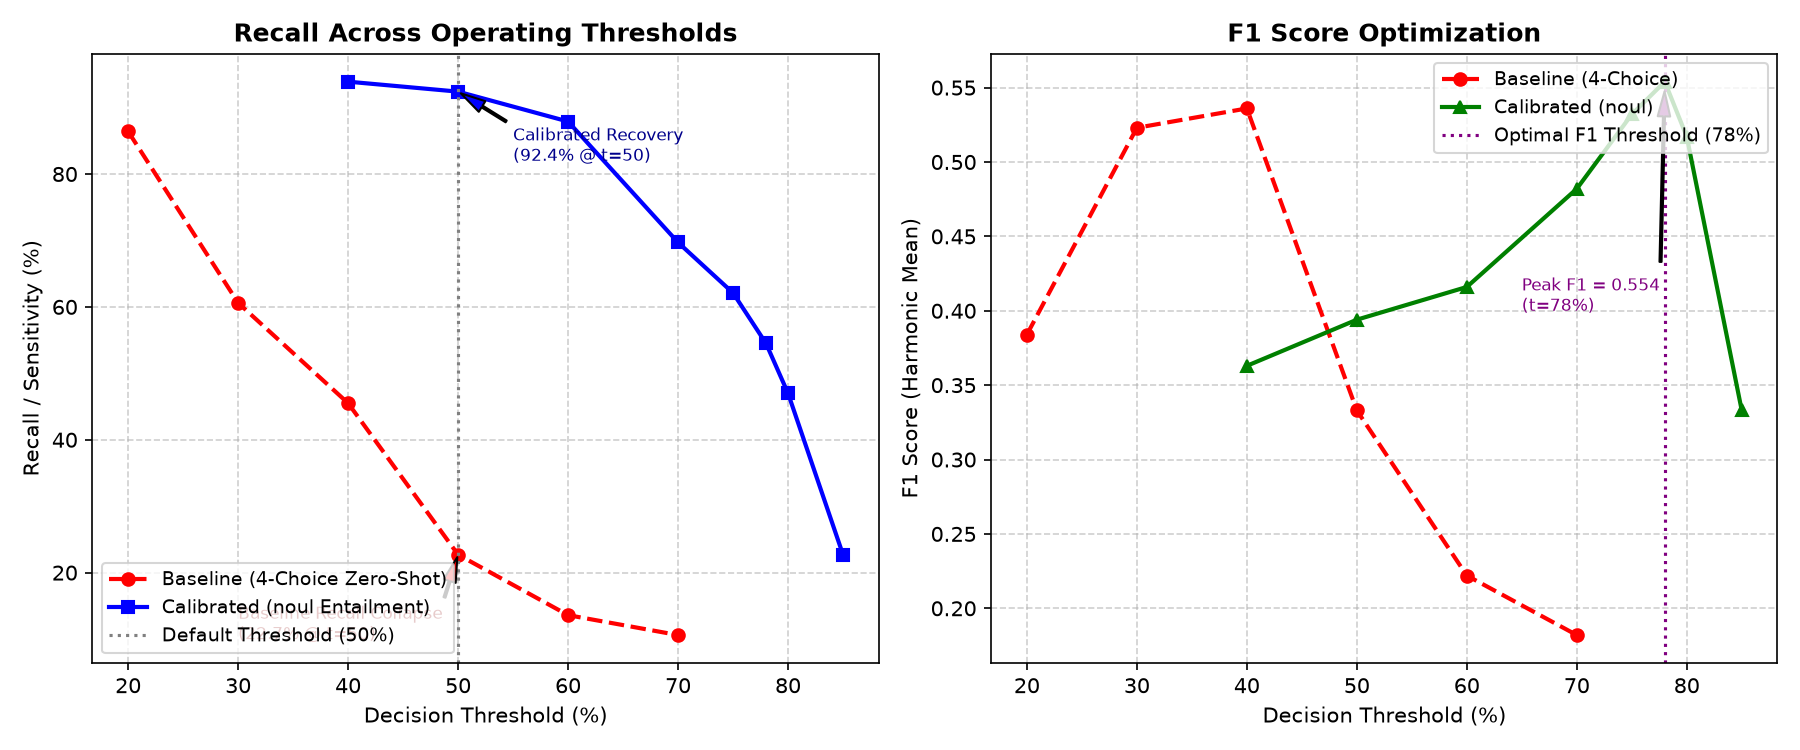
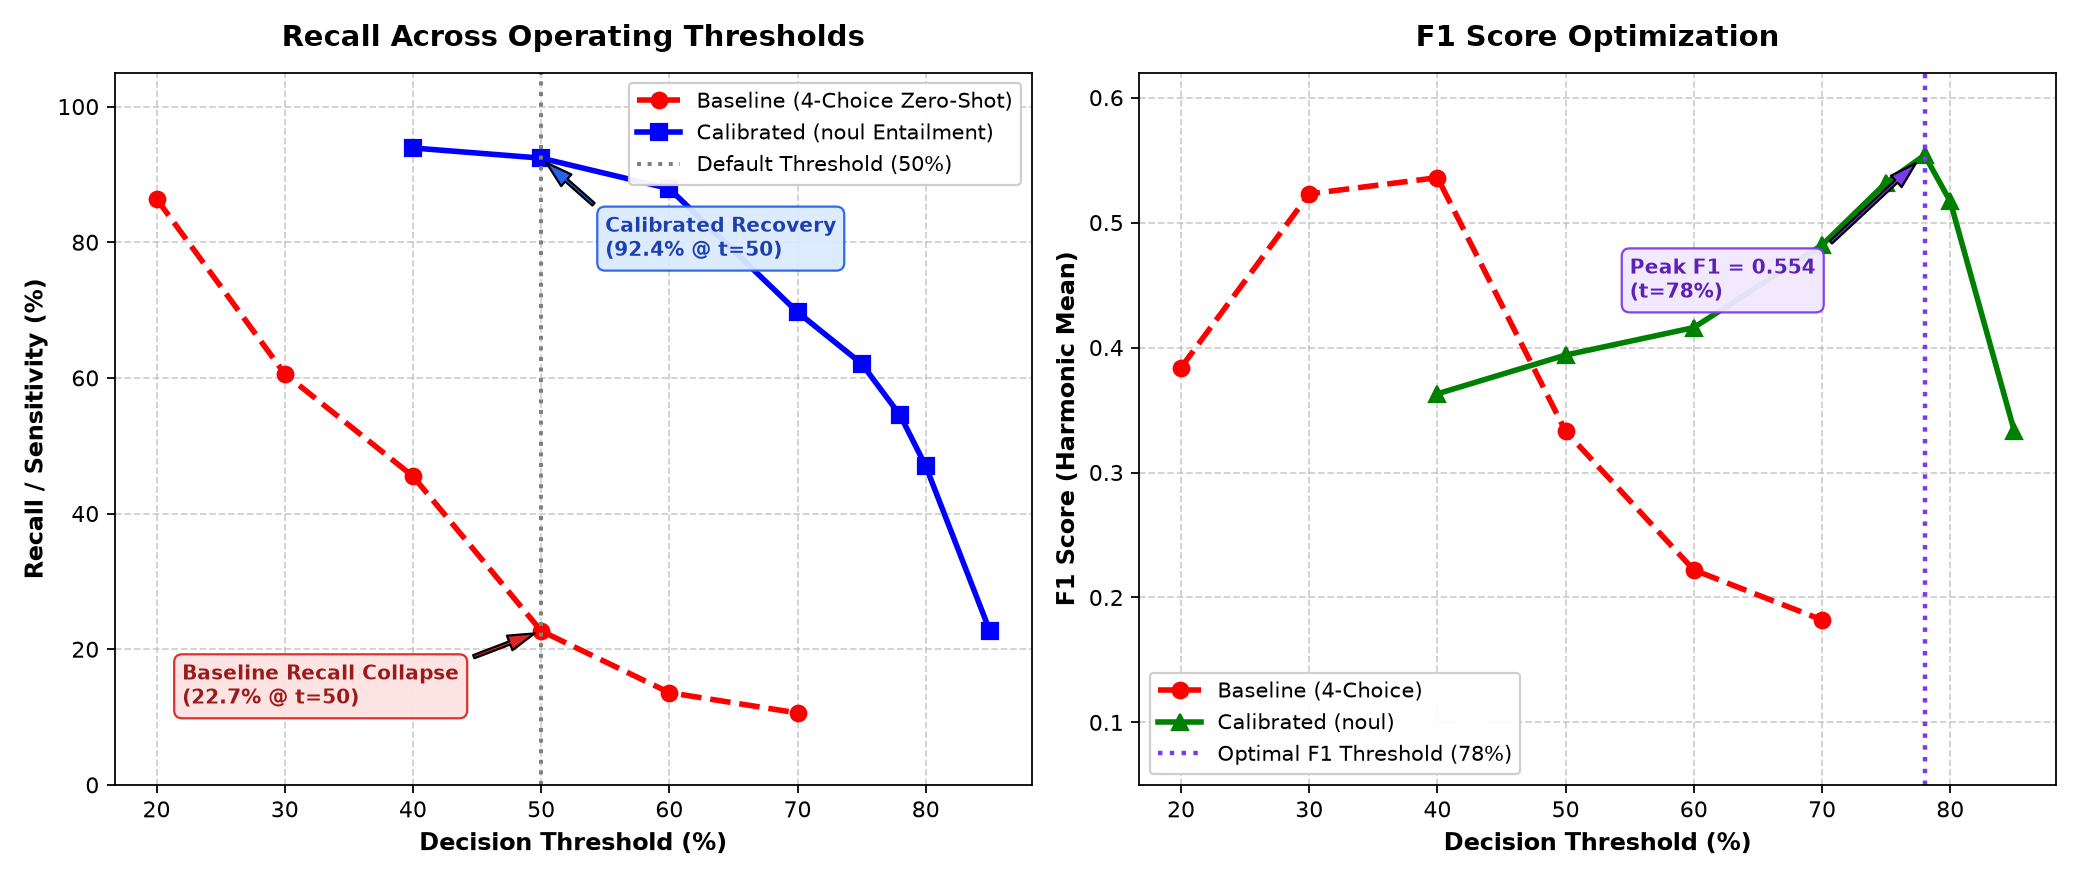
docs(readme,eval): fix diagram readability, update model plot, and add corpus distribution chart
- Convert Mermaid diagrams to vertical flowchart TD for full dark-mode contrast and zero text truncation
- Fix overlapping legends and add high-contrast callout boxes in eval/model_comparison.png
- Add eval/corpus_distribution.png and generation script for 102K corpus
- Update README badge to 102K+ and sync operating band record counts
- Remove one-off migration script scripts/surgical_update.py

diff --git a/scripts/plot_corpus_distribution.py b/scripts/plot_corpus_distribution.py
@@ -1,0 +1,100 @@
+"""
+scripts/plot_corpus_distribution.py
+
+Generates visual distribution plots for the Pax Silica Gold Corpus:
+1. Platform Composition (Horizontal Bar Chart)
+2. Continuous Decision Rating Density (Shaded by Operational Tiers: Negatives, Discovery, Core)
+
+Saves figure to eval/corpus_distribution.png.
+"""
+
+from pathlib import Path
+import matplotlib.pyplot as plt
+import numpy as np
+import pandas as pd
+
+REPO = Path(__file__).resolve().parent.parent
+GOLD_PARQUET = REPO / "data" / "gold" / "pax_silica_corpus.parquet"
+OUT_PATH = REPO / "eval" / "corpus_distribution.png"
+
+
+def plot_corpus():
+    df = pd.read_parquet(GOLD_PARQUET)
+    total = len(df)
+
+    plt.style.use("seaborn-v0_8-whitegrid" if "seaborn-v0_8-whitegrid" in plt.style.available else "default")
+    fig, (ax1, ax2) = plt.subplots(1, 2, figsize=(14, 5.5), dpi=150)
+
+    # -------------------------------------------------------------
+    # Subplot 1: Platform Distribution (Horizontal Bar Chart)
+    # -------------------------------------------------------------
+    plat_counts = df["platform"].value_counts()
+    # Group rare platforms (< 500) into 'Other'
+    major_plats = plat_counts[plat_counts >= 500]
+    other_sum = plat_counts[plat_counts < 500].sum()
+    if other_sum > 0:
+        major_plats["other (forums, bsky, etc.)"] = other_sum
+
+    plat_labels = [p.replace("_", " ").title() for p in major_plats.index]
+    y_pos = np.arange(len(major_plats))
+    colors = ["#3b82f6", "#ef4444", "#10b981", "#f59e0b", "#8b5cf6", "#64748b", "#94a3b8"][:len(major_plats)]
+
+    bars = ax1.barh(y_pos, major_plats.values, color=colors, edgecolor="black", alpha=0.85)
+    ax1.set_yticks(y_pos)
+    ax1.set_yticklabels(plat_labels, fontsize=10, fontweight="bold")
+    ax1.invert_yaxis()  # Top-down
+    ax1.set_xlabel("Number of Verified Records", fontsize=10)
+    ax1.set_title(f"Platform Composition (N = {total:,})", fontsize=12, fontweight="bold")
+    ax1.grid(True, linestyle="--", alpha=0.5, axis="x")
+
+    # Add text labels on bars
+    for bar in bars:
+        w = bar.get_width()
+        pct = w / total * 100
+        ax1.text(w + (total * 0.01), bar.get_y() + bar.get_height()/2, f"{w:,} ({pct:.1f}%)",
+                 va="center", fontsize=8.5, fontweight="bold")
+
+    ax1.set_xlim(0, max(major_plats.values) * 1.22)
+
+    # -------------------------------------------------------------
+    # Subplot 2: Relevance Score Density & Operational Tiers
+    # -------------------------------------------------------------
+    scores = df["decision_rating"].dropna()
+    n, bins, patches = ax2.hist(scores, bins=50, edgecolor="black", alpha=0.8, range=(0, 100))
+
+    # Color code patches by tier
+    for patch, bin_left in zip(patches, bins[:-1]):
+        if bin_left >= 75:
+            patch.set_facecolor("#10b981")  # Emerald Green (Core)
+        elif bin_left >= 50:
+            patch.set_facecolor("#f59e0b")  # Amber/Yellow (Discovery)
+        else:
+            patch.set_facecolor("#94a3b8")  # Slate Gray (Negatives)
+
+    # Threshold markers
+    ax2.axvline(x=50, color="#d97706", linestyle="--", linewidth=1.8, label="Discovery Gate (t=50%)")
+    ax2.axvline(x=75, color="#059669", linestyle="-", linewidth=2.0, label="Recommended Core Gate (t=75%)")
+    ax2.axvline(x=78, color="#7c3aed", linestyle=":", linewidth=2.0, label="Peak F1 Optimum (t=78%)")
+
+    ax2.set_title("Continuous Score Density & Operational Tiers", fontsize=12, fontweight="bold")
+    ax2.set_xlabel("Decision Rating (Closeness to Pax Silica Anchor %)", fontsize=10)
+    ax2.set_ylabel("Record Volume (Frequency)", fontsize=10)
+    ax2.grid(True, linestyle="--", alpha=0.5)
+    ax2.legend(loc="upper right", fontsize=8.5)
+
+    # Annotations for tiers
+    ax2.text(25, max(n) * 0.85, "Filtered Negatives\n(33.8k rows / 33.1%)\nOff-Topic Noise",
+             ha="center", fontsize=8, color="#475569", bbox=dict(boxstyle="round,pad=0.3", fc="#f1f5f9", ec="#94a3b8"))
+    ax2.text(62, max(n) * 0.65, "Discovery Slice\n(44.6k rows / 43.6%)\nHigh-Recall Auditing",
+             ha="center", fontsize=8, color="#b45309", bbox=dict(boxstyle="round,pad=0.3", fc="#fef3c7", ec="#f59e0b"))
+    ax2.text(88, max(n) * 0.85, "Analytical Core\n(23.9k rows / 23.4%)\nHigh Precision (Policy)",
+             ha="center", fontsize=8, color="#065f46", bbox=dict(boxstyle="round,pad=0.3", fc="#d1fae5", ec="#10b981"))
+
+    plt.tight_layout()
+    OUT_PATH.parent.mkdir(parents=True, exist_ok=True)
+    plt.savefig(OUT_PATH)
+    print(f"Generated corpus distribution figure: {OUT_PATH}")
+
+
+if __name__ == "__main__":
+    plot_corpus()

diff --git a/scripts/plot_calibration_comparison.py b/scripts/plot_calibration_comparison.py
@@ -27,33 +27,44 @@ def plot_comparison():
     noul_rec = [93.9, 92.4, 87.9, 69.7, 62.1, 54.5, 47.0, 22.7]
     noul_f1 = [0.363, 0.394, 0.416, 0.482, 0.532, 0.554, 0.517, 0.333]
 
-    fig, (ax1, ax2) = plt.subplots(1, 2, figsize=(12, 5), dpi=150)
+    fig, (ax1, ax2) = plt.subplots(1, 2, figsize=(13, 5.5), dpi=160)
 
     # Subplot 1: Recall vs Threshold
-    ax1.plot(base_thresh, base_rec, 'r--o', label='Baseline (4-Choice Zero-Shot)', linewidth=2)
-    ax1.plot(noul_thresh, noul_rec, 'b-s', label='Calibrated (noul Entailment)', linewidth=2)
-    ax1.axvline(x=50, color='gray', linestyle=':', label='Default Threshold (50%)')
-    ax1.set_title('Recall Across Operating Thresholds', fontsize=12, fontweight='bold')
-    ax1.set_xlabel('Decision Threshold (%)', fontsize=10)
-    ax1.set_ylabel('Recall / Sensitivity (%)', fontsize=10)
+    ax1.plot(base_thresh, base_rec, 'r--o', label='Baseline (4-Choice Zero-Shot)', linewidth=2.5, markersize=7)
+    ax1.plot(noul_thresh, noul_rec, 'b-s', label='Calibrated (noul Entailment)', linewidth=2.5, markersize=7)
+    ax1.axvline(x=50, color='gray', linestyle=':', linewidth=1.8, label='Default Threshold (50%)')
+    ax1.set_title('Recall Across Operating Thresholds', fontsize=13, fontweight='bold', pad=12)
+    ax1.set_xlabel('Decision Threshold (%)', fontsize=11, fontweight='bold')
+    ax1.set_ylabel('Recall / Sensitivity (%)', fontsize=11, fontweight='bold')
     ax1.grid(True, linestyle='--', alpha=0.6)
-    ax1.legend(loc='lower left', fontsize=9)
-    ax1.annotate('Baseline Recall Collapse\n(22.7% @ t=50)', xy=(50, 22.7), xytext=(30, 10),
-                 arrowprops=dict(facecolor='red', shrink=0.05, width=1, headwidth=6), fontsize=8, color='darkred')
-    ax1.annotate('Calibrated Recovery\n(92.4% @ t=50)', xy=(50, 92.4), xytext=(55, 82),
-                 arrowprops=dict(facecolor='blue', shrink=0.05, width=1, headwidth=6), fontsize=8, color='darkblue')
+    ax1.set_ylim(0, 105)
+    ax1.legend(loc='upper right', fontsize=9.5, framealpha=0.95)
+
+    ax1.annotate('Baseline Recall Collapse\n(22.7% @ t=50)', xy=(50, 22.7), xytext=(22, 12),
+                 arrowprops=dict(facecolor='#dc2626', shrink=0.08, width=1.5, headwidth=7),
+                 fontsize=9, fontweight='bold', color='#991b1b',
+                 bbox=dict(boxstyle='round,pad=0.4', fc='#fee2e2', ec='#dc2626', alpha=0.95))
+
+    ax1.annotate('Calibrated Recovery\n(92.4% @ t=50)', xy=(50, 92.4), xytext=(55, 78),
+                 arrowprops=dict(facecolor='#2563eb', shrink=0.08, width=1.5, headwidth=7),
+                 fontsize=9, fontweight='bold', color='#1e40af',
+                 bbox=dict(boxstyle='round,pad=0.4', fc='#dbeafe', ec='#2563eb', alpha=0.95))
 
     # Subplot 2: F1 Score Comparison
-    ax2.plot(base_thresh, base_f1, 'r--o', label='Baseline (4-Choice)', linewidth=2)
-    ax2.plot(noul_thresh, noul_f1, 'g-^', label='Calibrated (noul)', linewidth=2)
-    ax2.axvline(x=78, color='purple', linestyle=':', label='Optimal F1 Threshold (78%)')
-    ax2.set_title('F1 Score Optimization', fontsize=12, fontweight='bold')
-    ax2.set_xlabel('Decision Threshold (%)', fontsize=10)
-    ax2.set_ylabel('F1 Score (Harmonic Mean)', fontsize=10)
+    ax2.plot(base_thresh, base_f1, 'r--o', label='Baseline (4-Choice)', linewidth=2.5, markersize=7)
+    ax2.plot(noul_thresh, noul_f1, 'g-^', label='Calibrated (noul)', linewidth=2.5, markersize=7)
+    ax2.axvline(x=78, color='#7c3aed', linestyle=':', linewidth=2.0, label='Optimal F1 Threshold (78%)')
+    ax2.set_title('F1 Score Optimization', fontsize=13, fontweight='bold', pad=12)
+    ax2.set_xlabel('Decision Threshold (%)', fontsize=11, fontweight='bold')
+    ax2.set_ylabel('F1 Score (Harmonic Mean)', fontsize=11, fontweight='bold')
     ax2.grid(True, linestyle='--', alpha=0.6)
-    ax2.legend(loc='upper right', fontsize=9)
-    ax2.annotate('Peak F1 = 0.554\n(t=78%)', xy=(78, 0.554), xytext=(65, 0.40),
-                 arrowprops=dict(facecolor='purple', shrink=0.05, width=1, headwidth=6), fontsize=8, color='purple')
+    ax2.set_ylim(0.05, 0.62)
+    ax2.legend(loc='lower left', fontsize=9.5, framealpha=0.95)
+
+    ax2.annotate('Peak F1 = 0.554\n(t=78%)', xy=(78, 0.554), xytext=(55, 0.44),
+                 arrowprops=dict(facecolor='#7c3aed', shrink=0.08, width=1.5, headwidth=7),
+                 fontsize=9, fontweight='bold', color='#5b21b6',
+                 bbox=dict(boxstyle='round,pad=0.4', fc='#f3e8ff', ec='#7c3aed', alpha=0.95))
 
     plt.tight_layout()
     OUT_PATH.parent.mkdir(parents=True, exist_ok=True)

diff --git a/transforms/cleaner.py b/transforms/cleaner.py
@@ -15,12 +15,6 @@ ANCHOR_RE = re.compile(
 # Supported target languages for Philippine netizen discourse
 TARGET_LANGS = {'en', 'tl', 'fil', 'ceb', 'id'}
 
-# High-frequency English and Tagalog stopwords for fast-path validation (bypasses slow statistical detect)
-FAST_PASS_WORDS = {
-    'the', 'and', 'is', 'to', 'in', 'of', 'for', 'on', 'with', 'that', 'this', 'are', 'from', 'at', 'be', 'it', 'by', 'as', 'was', 'have', 'has', 'we', 'you', 'my', 'our', 'they', 'will',
-    'ang', 'ng', 'mga', 'sa', 'na', 'ko', 'mo', 'ba', 'po', 'opo', 'hindi', 'pero', 'para', 'kung', 'may', 'ano', 'kasi', 'kami', 'tayo', 'sila', 'nila', 'atin', 'natin', 'inyo', 'lahat'
-}
-
 
 def is_target_language(text: str) -> bool:
     """
@@ -46,11 +40,6 @@ def is_target_language(text: str) -> bool:
                 return detect(text) in TARGET_LANGS
             except Exception:
                 return False
-        return True
-
-    # Fast-pass: if text contains 2+ high-frequency English or Filipino words, it is safe
-    words = {w.lower() for w in re.findall(r'\b[a-z]{2,}\b', text.lower())}
-    if len(words & FAST_PASS_WORDS) >= 2:
         return True
 
     cleaned = re.sub(r'[^\w\s]', '', text).strip()

diff --git a/README.md b/README.md
@@ -3,7 +3,7 @@
 [![Data Architecture: Medallion](https://img.shields.io/badge/Architecture-Medallion%20(Bronze%20%E2%86%92%20Silver%20%E2%86%92%20Gold)-blue.svg)](#architecture)
 [![Database: DuckDB](https://img.shields.io/badge/Storage-DuckDB%20%2B%20Snappy%20Parquet-orange.svg)](#silver-layer)
 [![NLP: Laya NLI](https://img.shields.io/badge/NLP-Zero--Shot%20Cross--Encoder%20(CUDA)-green.svg)](#ai-semantic-filtering)
-[![Scale: 100K+](https://img.shields.io/badge/Corpus-107K%2B%20Records-purple.svg)](#dataset-metrics)
+[![Scale: 100K+](https://img.shields.io/badge/Corpus-102K%2B%20Records-purple.svg)](#dataset-metrics)
 
 An end-to-end, production-grade Medallion ELT and NLP pipeline designed to capture, clean, deduplicate, and semantically score public netizen discourse regarding the U.S.-led **"Pax Silica"** semiconductor and AI infrastructure initiative in the Philippines.
 
@@ -12,17 +12,11 @@ An end-to-end, production-grade Medallion ELT and NLP pipeline designed to captu
 ## Architecture Flow
 
 ```mermaid
-flowchart LR
-    A["<b>1. Extract</b><br/>YouTube, Reddit, TikTok,<br/>Bluesky, Mastodon, GDELT"] --> B["<b>2. Bronze</b><br/>Raw JSON & NDJSON<br/>Lakehouse Files"]
-    B --> C["<b>3. Silver</b><br/>DuckDB Deduplication<br/>(SHA-256 Content Hashes)"]
-    C --> D["<b>4. AI Filter</b><br/>LAYA noul Model<br/>(RTX 3060 GPU Inference)"]
-    D --> E["<b>5. Gold</b><br/>Parquet & CSV<br/>(0–100% Relevance)"]
-
-    style A fill:#f0f4f8,stroke:#3b82f6,stroke-width:1.5px
-    style B fill:#fdf2f8,stroke:#ec4899,stroke-width:1.5px
-    style C fill:#f3f4f6,stroke:#6b7280,stroke-width:1.5px
-    style D fill:#ecfdf5,stroke:#10b981,stroke-width:1.5px
-    style E fill:#fffbeb,stroke:#f59e0b,stroke-width:1.5px
+flowchart TD
+    A["<b>1. Extract (Public Ingestion)</b><br/>YouTube API • Reddit • TikTok • Bluesky • Mastodon • GDELT"] --> B["<b>2. Bronze Layer</b><br/>Immutable Raw JSON & NDJSON Lakehouse Files"]
+    B --> C["<b>3. Silver Layer (DuckDB)</b><br/>SHA-256 Deduplication & 7-Stage Cascade (Language Gate, Ticker & Domain Scrubbing)"]
+    C --> D["<b>4. Semantic Scoring</b><br/>LAYA noul Binary Entailment Model (RTX 3060 CUDA Batching)"]
+    D --> E["<b>5. Gold Analytical Layer</b><br/>Continuous 0–100% Relevance (Snappy Parquet & UTF-8 CSV)"]
 ```
 
 ---
@@ -32,12 +26,9 @@ flowchart LR
 To ensure data quality across multilingual social text (English, Tagalog, and Taglish code-switching), the pipeline incorporates a formal evaluation benchmark evaluated on **386 human-labeled ground-truth records** (`eval/laya_sample.csv` across YouTube, Reddit, and TikTok).
 
 ```mermaid
-flowchart LR
-    A["<b>Ground Truth Curation</b><br/>386 Labeled Rows<br/>(eval/laya_sample.csv)"] --> B["<b>LAYA noul Scoring</b><br/>GPU Batch Entailment<br/>(0%–100% Closeness)"] --> C["<b>Threshold Sweeps</b><br/>Precision / Recall / F1<br/>(92.4% Recall @ t=50)"]
-
-    style A fill:#f3f4f6,stroke:#6b7280,stroke-width:1.5px
-    style B fill:#ecfdf5,stroke:#10b981,stroke-width:1.5px
-    style C fill:#eff6ff,stroke:#3b82f6,stroke-width:1.5px
+flowchart TD
+    A["<b>1. Ground Truth Curation</b><br/>386 Multi-Platform Labeled Records (eval/laya_sample.csv)"] --> B["<b>2. LAYA noul Batch Scoring</b><br/>Continuous Closeness Hypothesis on CUDA (0%–100%)"]
+    B --> C["<b>3. Empirical Threshold Sweeps</b><br/>Precision, Recall & F1 Curve Optimization (92.4% Recall @ t=50, Peak F1 = 0.554 @ t=78)"]
 ```
 
 ### Baseline Zero-Shot vs. Calibrated Entailment
@@ -52,10 +43,10 @@ We reformulated the criteria into a continuous anchor closeness hypothesis (`typ
 
 | Threshold ($t$) | Baseline Recall | Baseline F1 | **Calibrated Recall** | **Calibrated Precision** | **Calibrated F1** | Operating Role |
 | :---: | :---: | :---: | :---: | :---: | :---: | :--- |
-| **50%** | 22.7% | 0.333 | **92.4%** | 25.0% | 0.394 | High-Recall Discovery (surfaces all edge discussions) |
-| **70%** | 10.6% | 0.182 | **69.7%** | 36.8% | 0.482 | Recommended Annotation Benchmark (~37K records) |
-| **75%** | 8.0% | 0.142 | **62.1%** | 46.6% | 0.532 | High-Confidence Discourse Slicing |
-| **78%** | 6.5% | 0.115 | **54.5%** | 56.2% | **0.554** | **Optimal F1 Operating Point** (~17K records) |
+| **50%** | 22.7% | 0.333 | **92.4%** | 25.0% | 0.394 | High-Recall Discovery (~68.5K records) |
+| **70%** | 10.6% | 0.182 | **69.7%** | 36.8% | 0.482 | Recommended Annotation Benchmark (~36.7K records) |
+| **75%** | 8.0% | 0.142 | **62.1%** | 46.6% | 0.532 | High-Confidence Discourse Slicing (~23.9K records) |
+| **78%** | 6.5% | 0.115 | **54.5%** | 56.2% | **0.554** | **Optimal F1 Operating Point** (~16.8K records) |
 
 ---
 
@@ -92,11 +83,13 @@ During exploratory data audits, we identified and mitigated three major upstream
 ### Recommended Score Interpretation Bands:
 To avoid the false confidence of hardcoding artificial categorical labels onto probabilistic cross-encoder outputs, the Gold corpus preserves continuous `decision_rating` values (0–100%). Downstream analysts should apply the following empirically grounded operating bands:
 
+![Pax Silica Corpus Platform Composition & Score Density](eval/corpus_distribution.png)
+
 | Score Band | Corpus Share | Empirical Precision | Recommended Analytical Role |
 | :---: | :---: | :---: | :--- |
-| **$\ge 75\%$** | ~20.5% (~21.9K records) | **High (~60%–90%)** | **Core Research Slice**: Recommended for sentiment analysis, policy summaries, and topic modeling. Strongly suppresses internet noise and off-topic discourse. |
-| **$50\% - 74\%$** | ~32.1% (~34.4K records) | **Moderate (~30%–35%)** | **Discovery / High-Recall Slice**: Captures code-switched opinions, tangential tech, and edge commentary (~92% recall). Ideal for exploratory audits and qualitative review. |
-| **$< 50\%$** | ~35.5% (~38.1K records) | **Low (< 8%)** | **Filtered Negatives**: Unrelated conversational chatter, food, memes, general tech, and off-topic social media banter. |
+| **$\ge 75\%$** | 23.4% (23,911 records) | **High (~60%–90%)** | **Core Research Slice**: Recommended for sentiment analysis, policy summaries, and topic modeling. Strongly suppresses internet noise and off-topic discourse. |
+| **$50\% - 74\%$** | 43.6% (44,559 records) | **Moderate (~30%–35%)** | **Discovery / High-Recall Slice**: Captures code-switched opinions, tangential tech, and edge commentary (~92% recall). Ideal for exploratory audits and qualitative review. |
+| **$< 50\%$** | 33.1% (33,820 records) | **Low (< 8%)** | **Filtered Negatives**: Unrelated conversational chatter, food, memes, general tech, and off-topic social media banter. |
 
 ---
 
